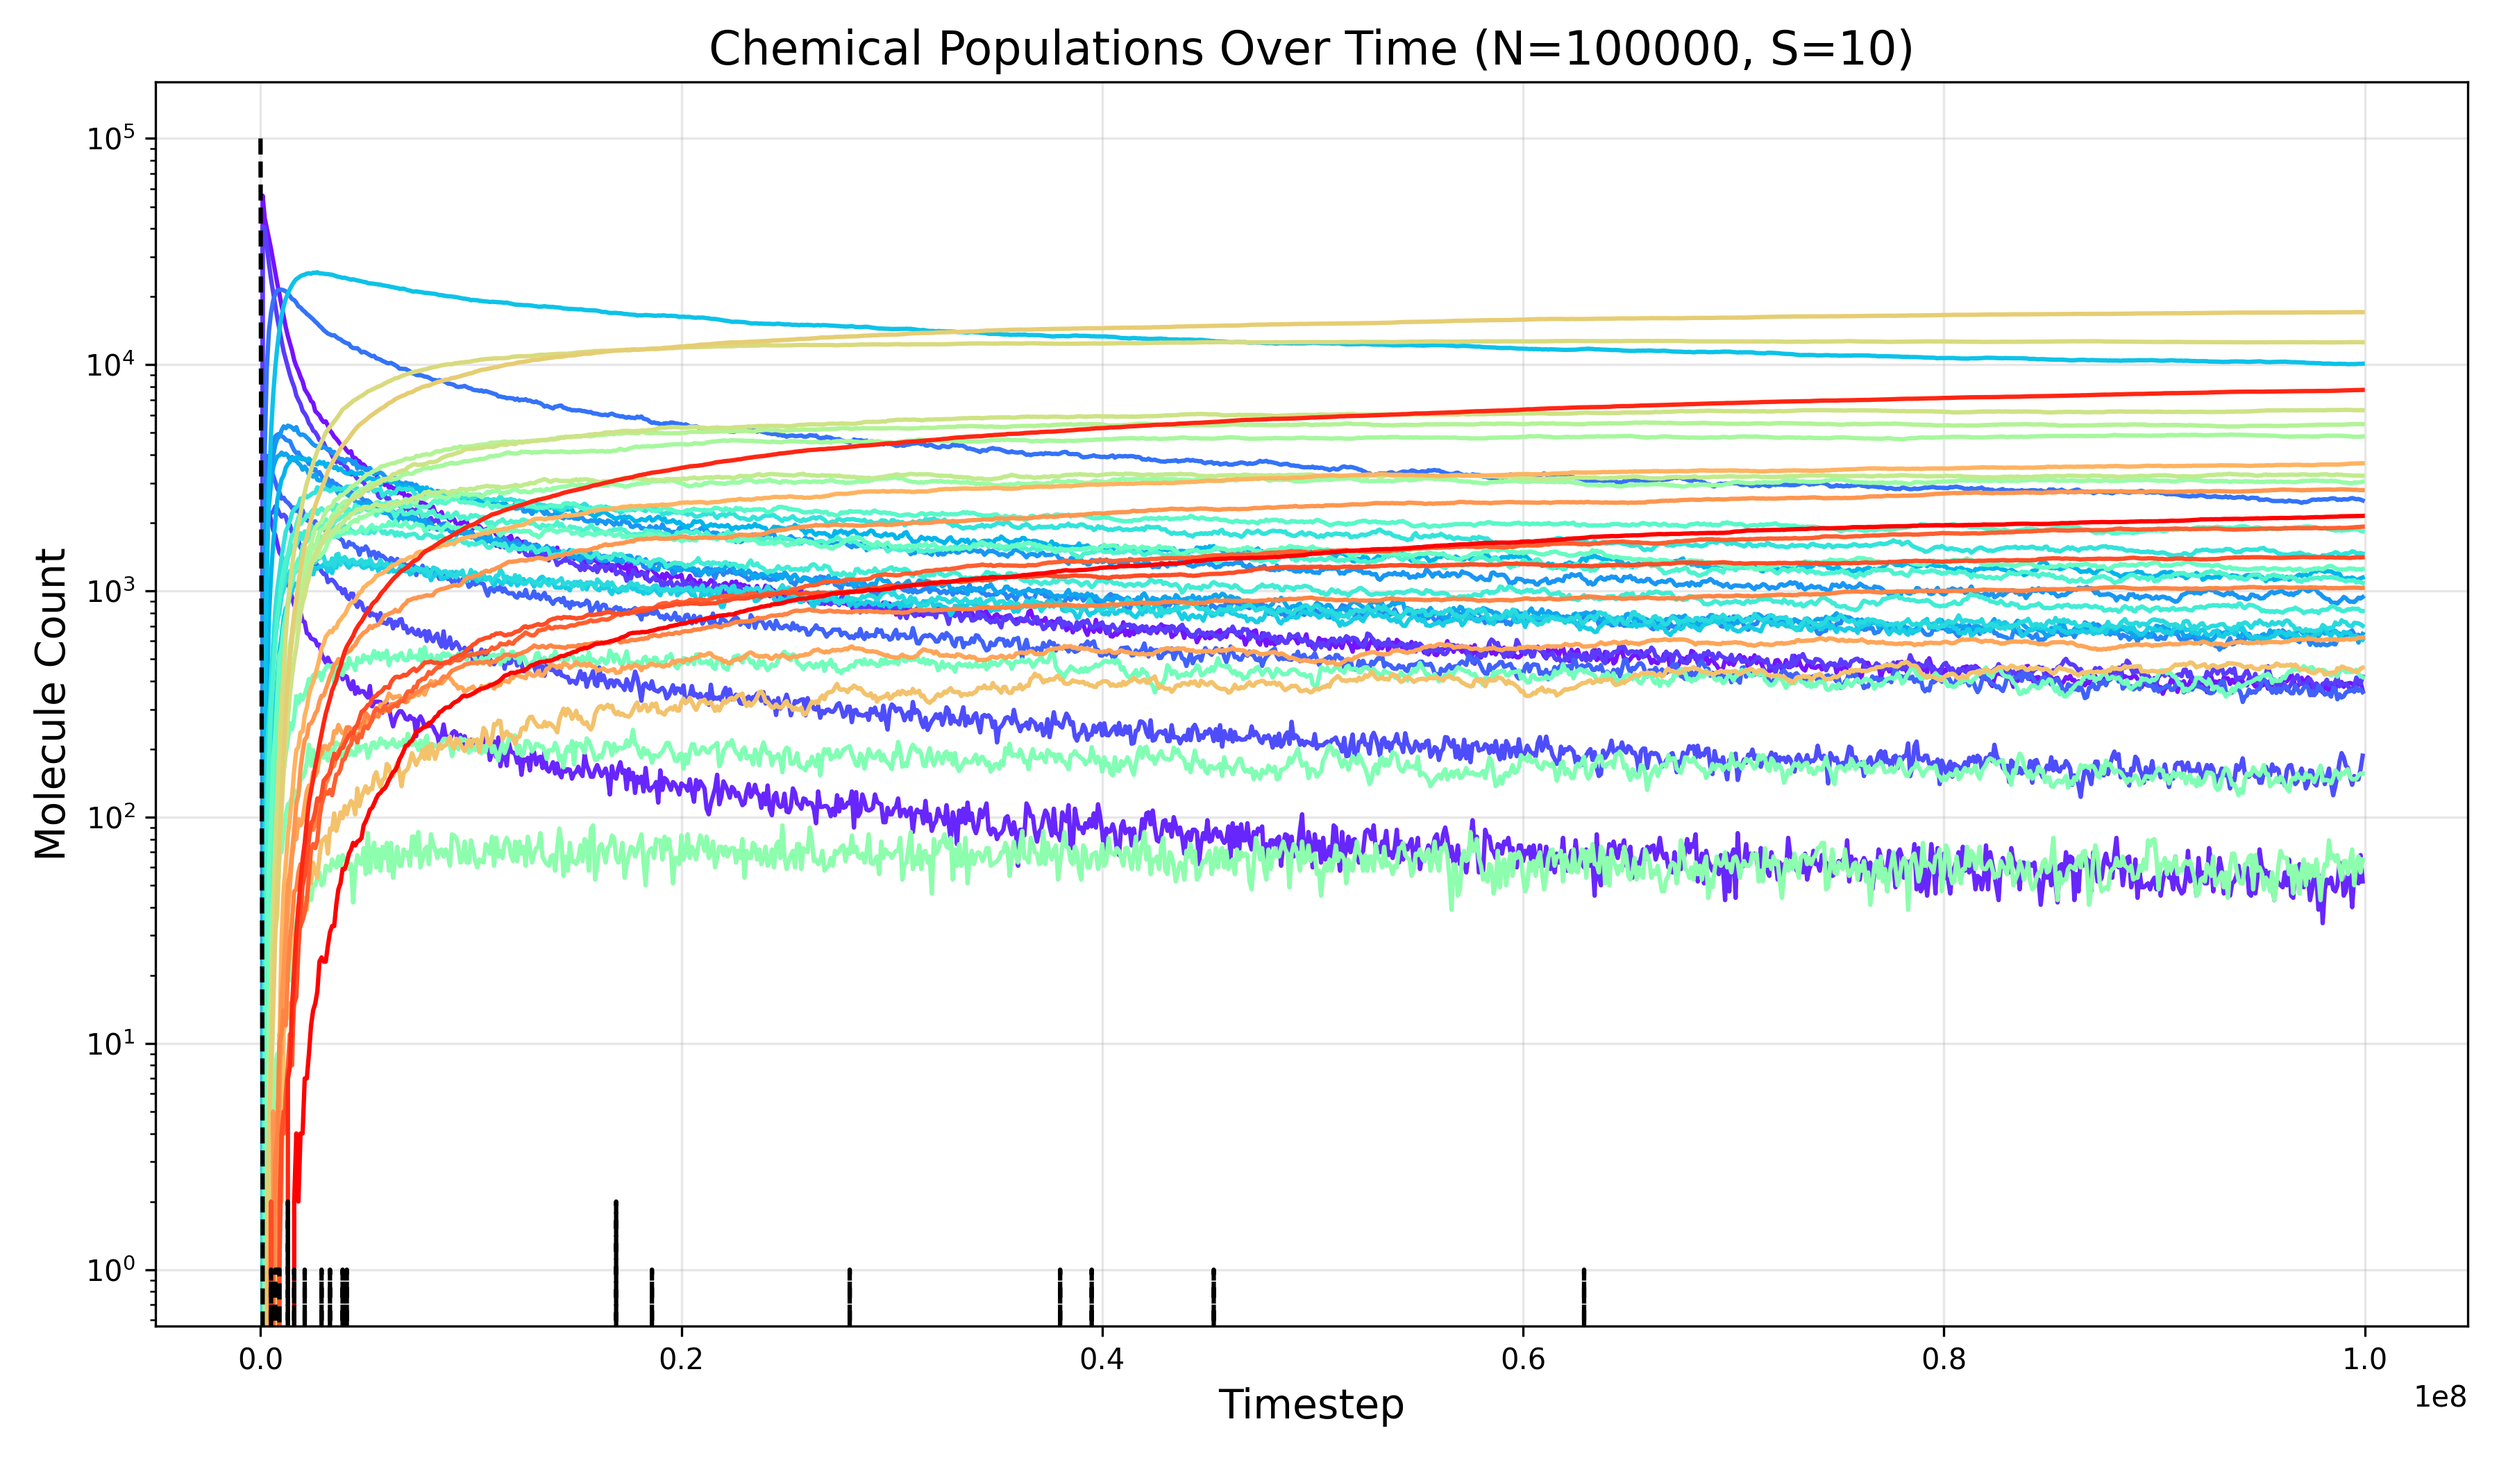
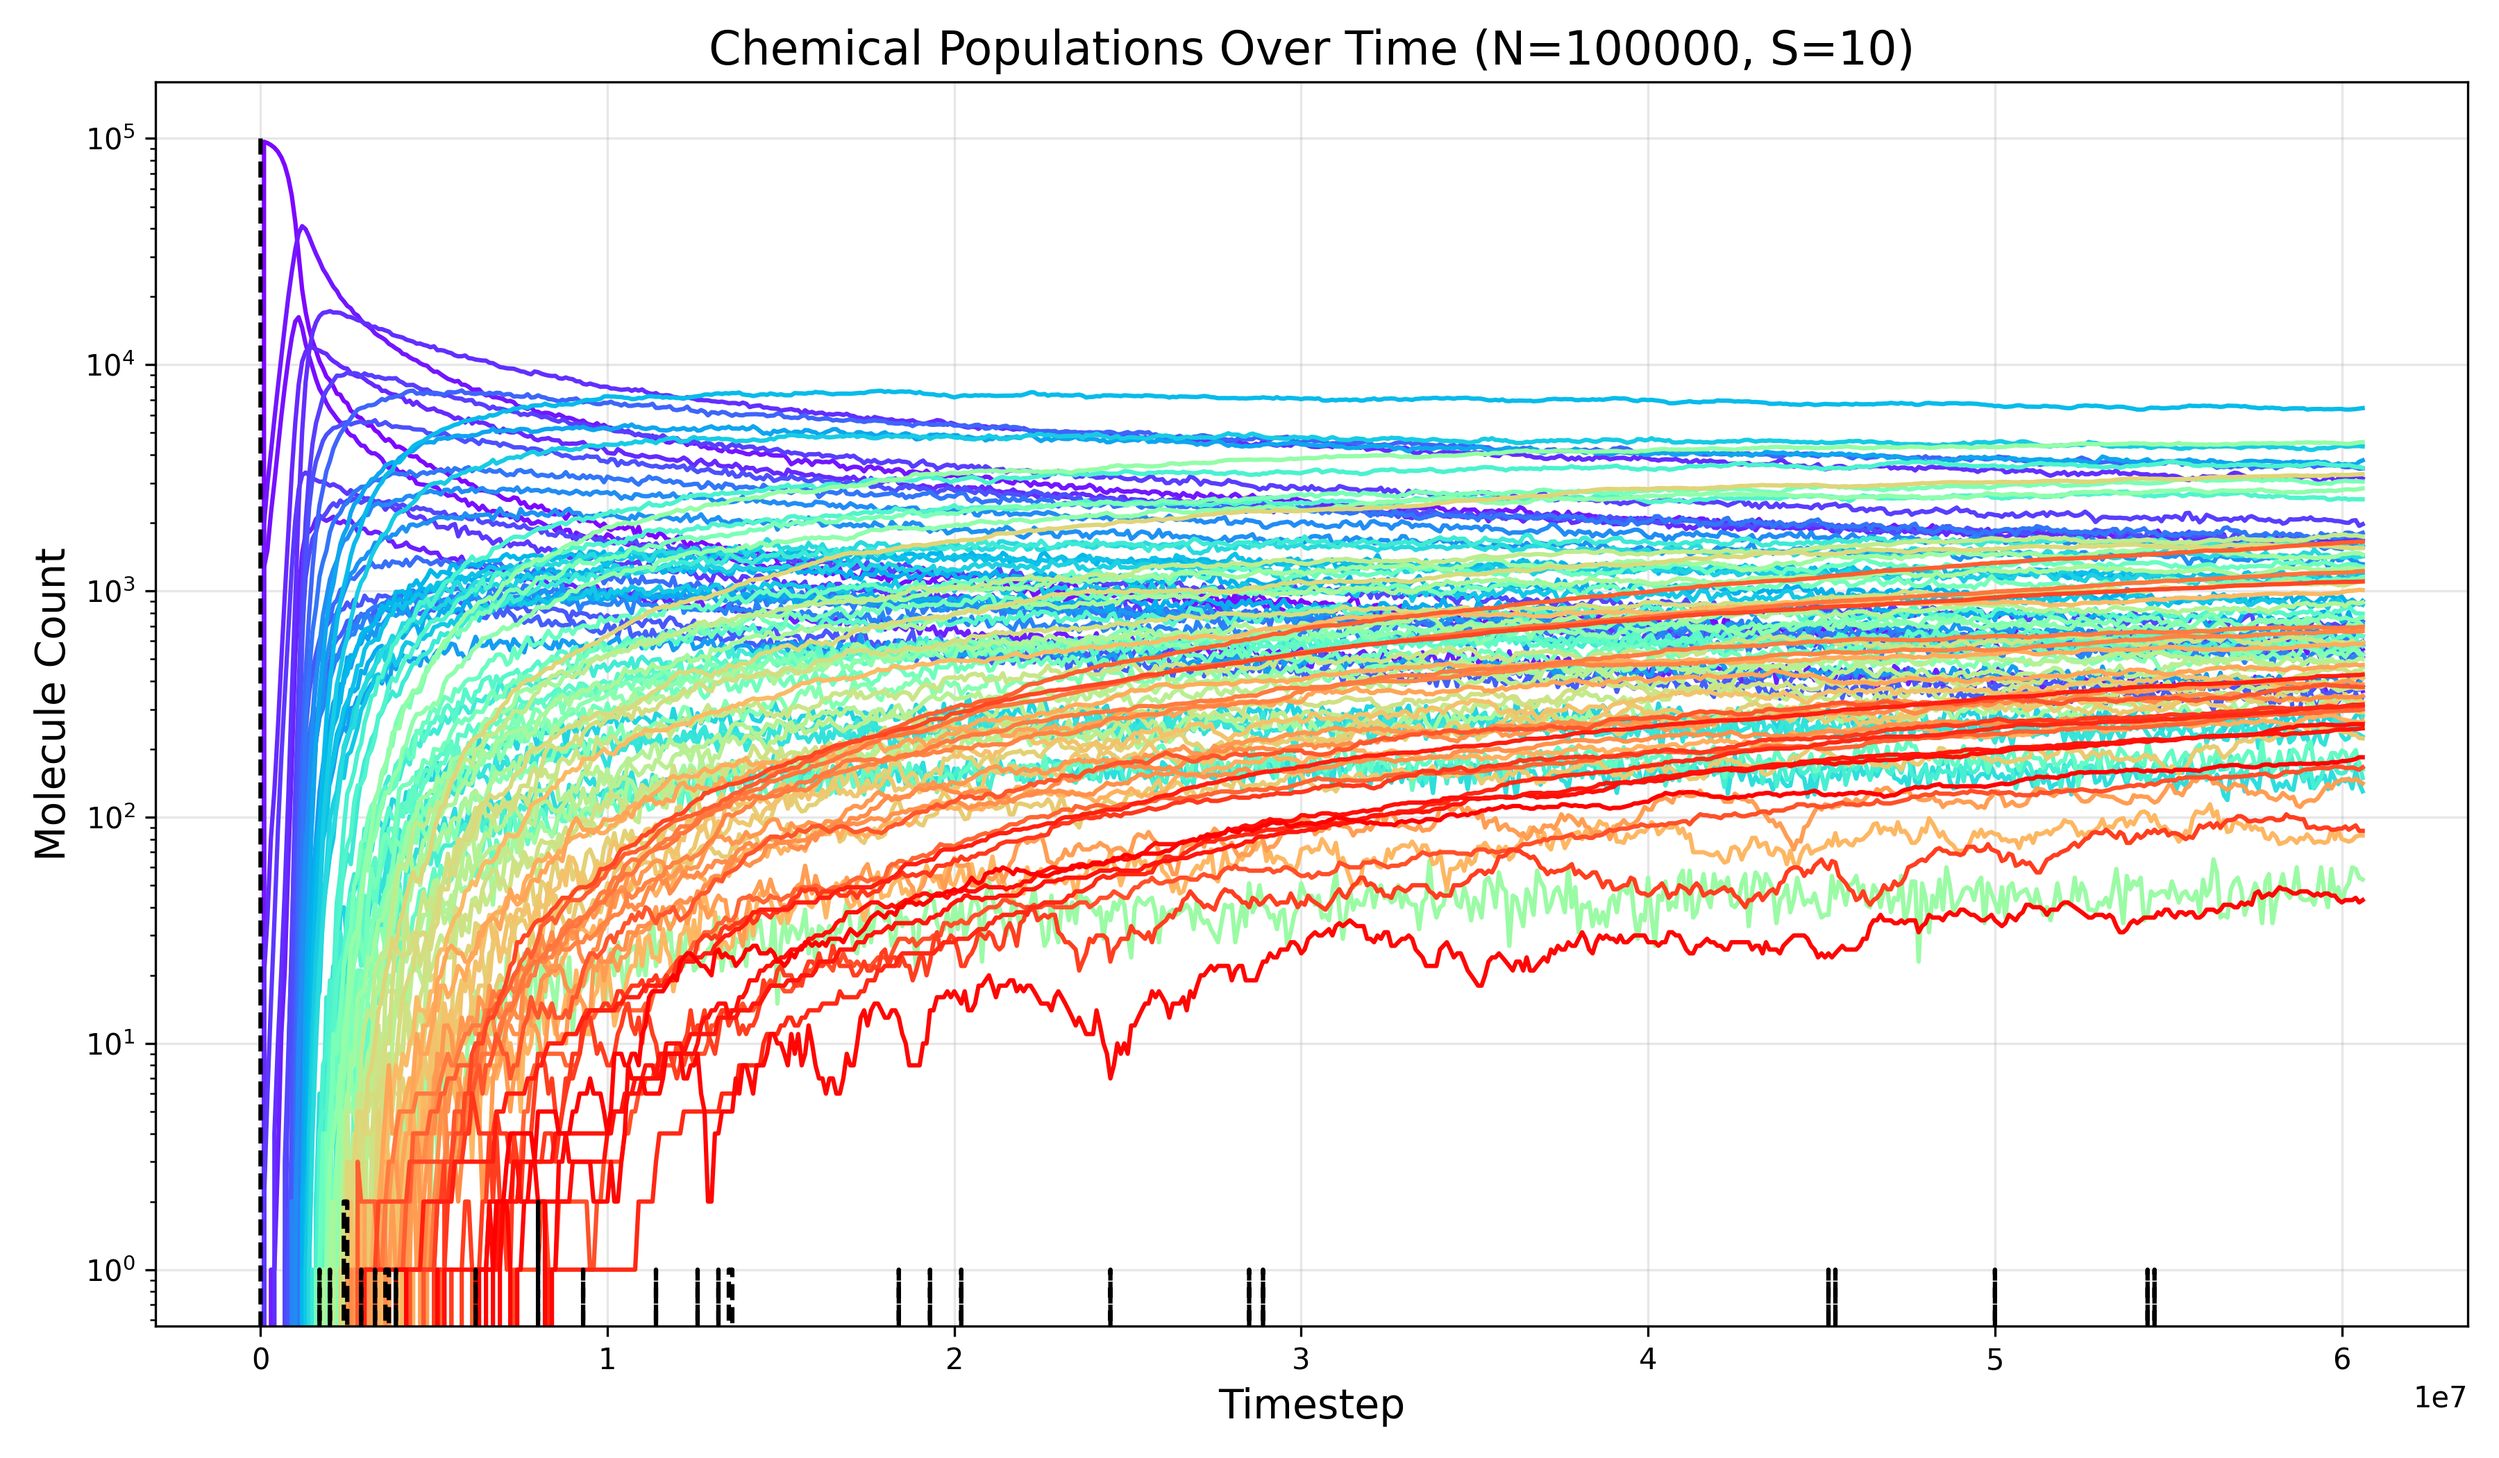
Change lattice viz for new format, try visualizing mf with more rules

diff --git a/src/noSinkglobalNewRule/vizPopulationTimeseries.py b/src/noSinkglobalNewRule/vizPopulationTimeseries.py
@@ -2,6 +2,7 @@ import numpy as np
 import matplotlib.pyplot as plt
 import matplotlib.cm as cm
 from pathlib import Path
+import csv
 
 def main(L, D):
     # Get script directory
@@ -19,20 +20,20 @@ def main(L, D):
         # Extract timestep from filename (e.g., lattice_1000.txt -> 1000)
         t = int(file_path.stem.split('_')[1])
         
-        # Read and parse lattice file
+        # Read and parse lattice file (new CSV format)
         with open(file_path, 'r') as f:
-            lines = f.readlines()
+            # Skip comment lines starting with '#'
+            lines = [line for line in f if not line.startswith('#')]
         
         # Initialize sum_counts for chemicals 0 to 100
         sum_counts = np.zeros(101, dtype=int)  # 0 to 100
         
-        for line in lines:
-            sites = line.strip().split('\t')
-            for site_str in sites:
-                if site_str.strip():  # Skip empty
-                    counts = [int(x) for x in site_str.split()]
-                    for c in range(len(counts)):
-                        sum_counts[c] += counts[c]
+        # Parse CSV data (skip header line)
+        reader = csv.DictReader(lines)
+        for row in reader:
+            chemical = int(row['chemical'])
+            count = int(row['count'])
+            sum_counts[chemical] += count
         
         data_list.append((t, sum_counts))
     
@@ -82,6 +83,6 @@ def main(L, D):
 
 if __name__ == "__main__":
     L = 25  # Lattice size
-    D = 5   # Diffusion coefficient
+    D = 1   # Diffusion coefficient
 
     main(L, D)

diff --git a/src/meanFieldNoSink/vizPopulationTimeseries.py b/src/meanFieldNoSink/vizPopulationTimeseries.py
@@ -68,8 +68,8 @@ def main(N, S, subdir):
 if __name__ == "__main__":
     N = 100000  # Number of molecules
     S = 10   # Supply rate
-    
-    subdir = "timeseries"
-    # subdir = "timeseriesLogVolatility"
+
+    # subdir = "timeseries"
+    subdir = "timeseriesLogVolatility"
 
     main(N, S, subdir)
